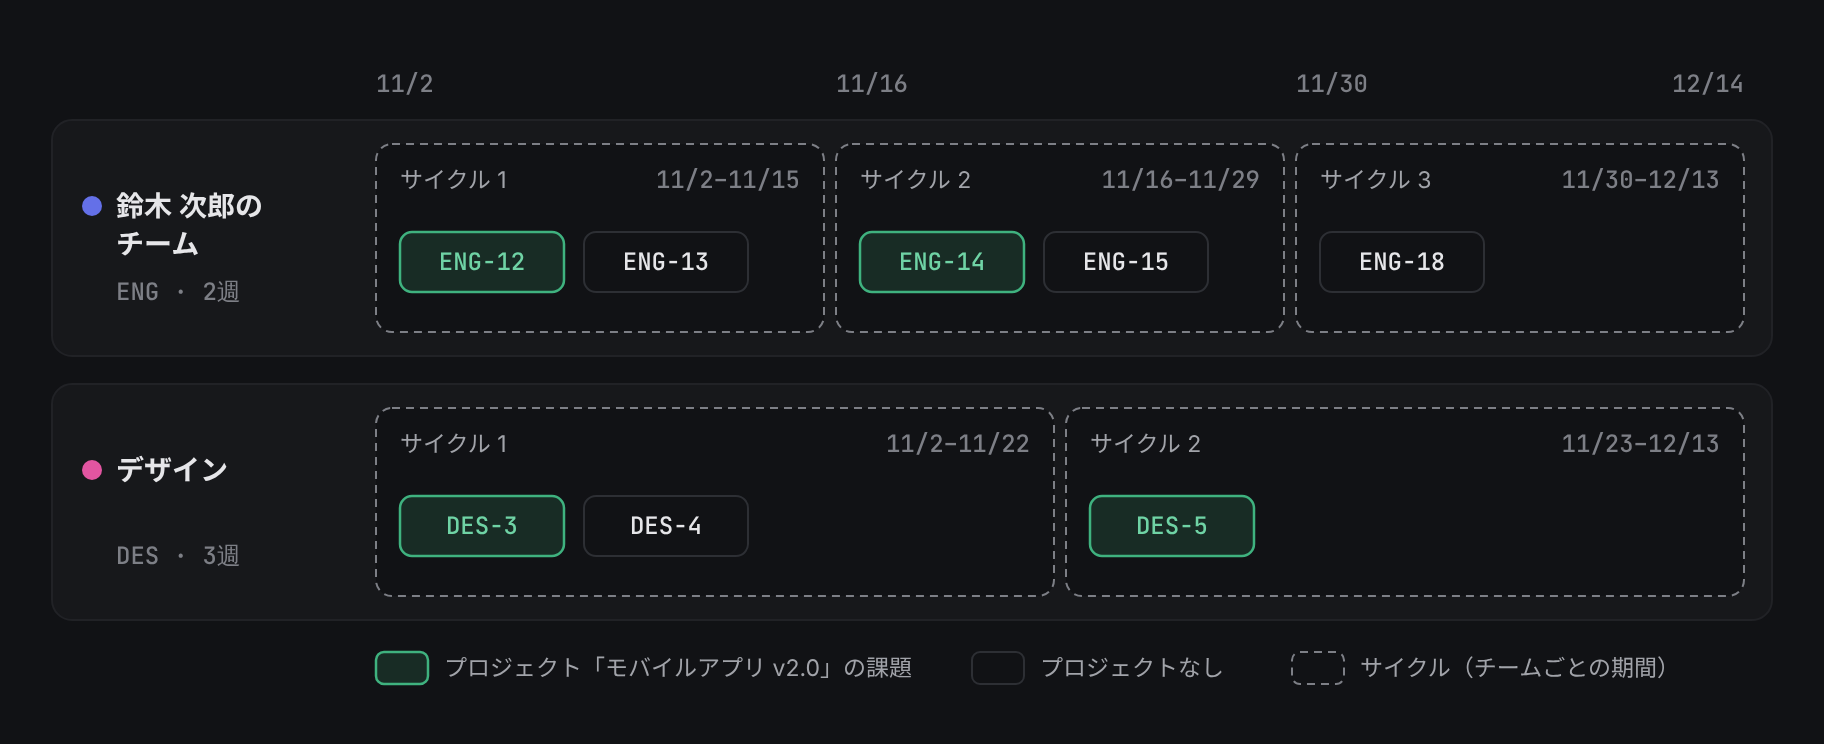
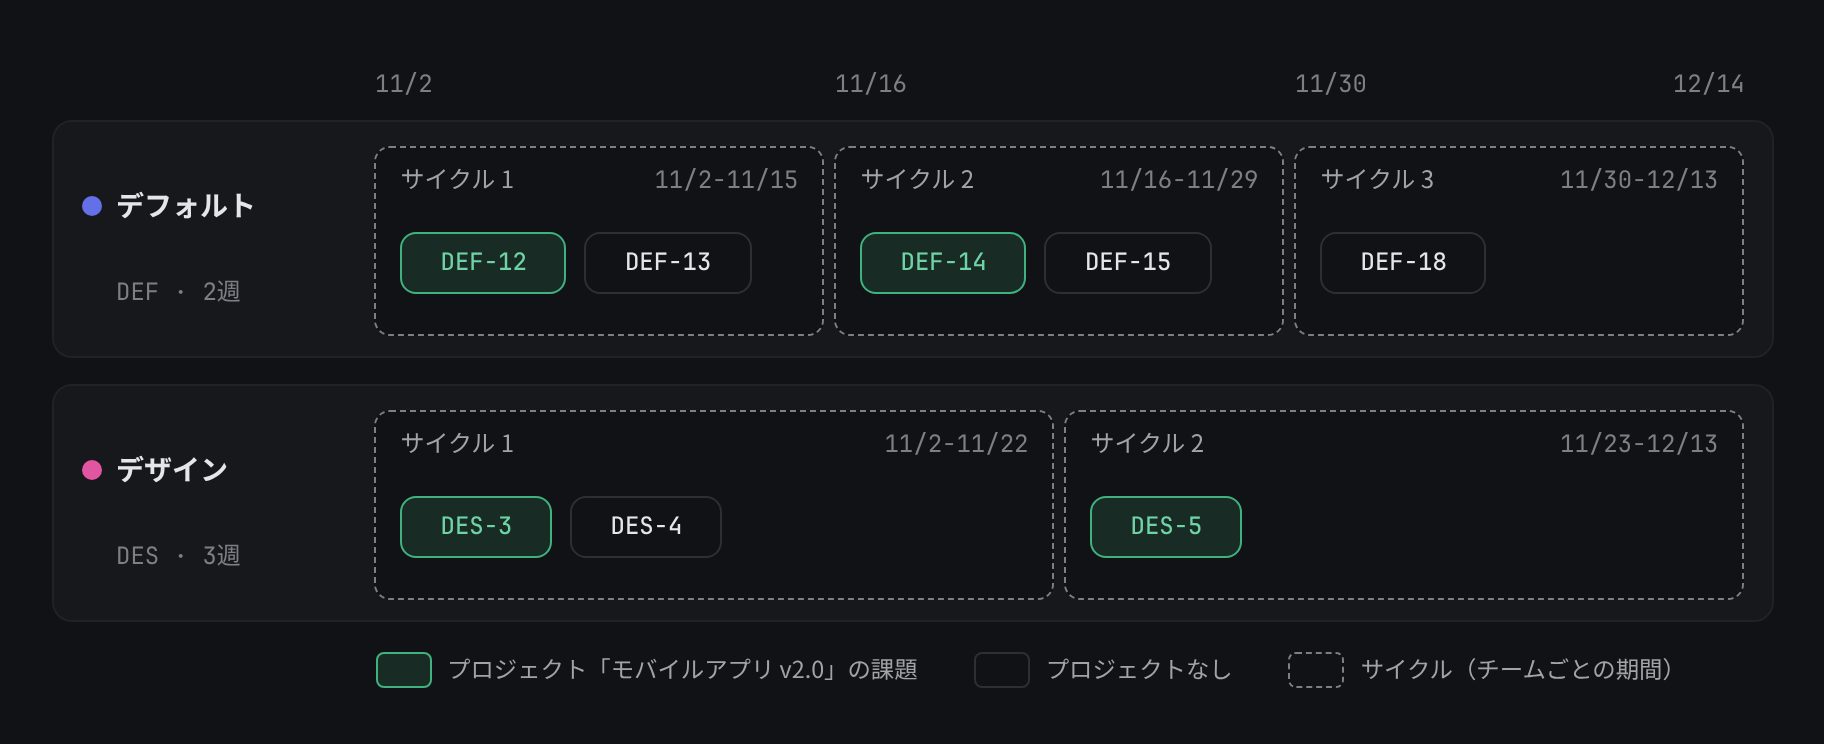
README の図「プロジェクトとサイクル」をチーム「デフォルト」（DEF）で作り直す
- 図の元データ docs/diagrams/projects-and-cycles.html を追加
- projects-and-cycles の PNG（ライト・ダーク）を書き出し直す
- README のディレクトリ構成に docs/diagrams/ と図の書き出しを追記

Claude-Session: https://claude.ai/code/session_01QjZbnsehNPyMXhKnuroriF

diff --git a/docs/diagrams/projects-and-cycles.html b/docs/diagrams/projects-and-cycles.html
@@ -1,0 +1,298 @@
+<!-- bun run diagrams で docs/images/ に書き出す -->
+<!DOCTYPE html>
+<html lang="ja">
+<head>
+<meta charset="utf-8">
+<title>プロジェクトとサイクル</title>
+<style>
+  :root {
+    --bg: #ffffff;
+    --frame: #f7f7f9;
+    --frame-border: #d6d7dc;
+    --surface: #ffffff;
+    --line: #e7e7eb;
+    --text: #1b1c21;
+    --muted: #5c5f68;
+    --label: #787b84;
+    --accent: #5865e3;
+    --pink: #c93d88;
+    --green: #1e8a5b;
+    --green-text: #17734b;
+    --green-bg: #e4f1eb;
+    color-scheme: light;
+  }
+
+  @media (prefers-color-scheme: dark) {
+    :root {
+      --bg: #111215;
+      --frame: #17181b;
+      --frame-border: #2d2f34;
+      --surface: #111215;
+      --line: #212226;
+      --text: #e6e6e9;
+      --muted: #a1a3a9;
+      --label: #7d7f86;
+      --accent: #6470e8;
+      --pink: #e255a1;
+      --green: #3fb27f;
+      --green-text: #6fd3a5;
+      --green-bg: #182c25;
+      color-scheme: dark;
+    }
+  }
+
+  * { box-sizing: border-box; margin: 0; padding: 0; }
+
+  html, body {
+    width: 912px;
+    height: 372px;
+    margin: 0;
+    background: var(--bg);
+    overflow: hidden;
+  }
+
+  body {
+    position: relative;
+    font-family: "Noto Sans JP", "Hiragino Sans", sans-serif;
+    color: var(--text);
+    -webkit-font-smoothing: antialiased;
+  }
+
+  .scale {
+    position: absolute;
+    left: 187.5px;
+    top: 33px;
+    width: 685px;
+    height: 18px;
+    color: var(--label);
+    font-family: "JetBrains Mono", ui-monospace, monospace;
+    font-size: 12px;
+    font-weight: 400;
+    line-height: 18px;
+  }
+
+  .scale span {
+    position: absolute;
+    top: 0;
+    white-space: nowrap;
+  }
+
+  .scale span:nth-child(1) { left: 0; }
+  .scale span:nth-child(2) { left: 230px; }
+  .scale span:nth-child(3) { left: 460px; }
+  .scale span:nth-child(4) { right: 0; }
+
+  .band {
+    position: absolute;
+    left: 25.5px;
+    width: 861px;
+    height: 119px;
+    background: var(--frame);
+    border: 1px solid var(--line);
+    border-radius: 10px;
+  }
+
+  .band.a { top: 59.5px; }
+  .band.b { top: 191.5px; }
+
+  .who {
+    position: absolute;
+    left: 14.5px;
+    top: 35.5px;
+    display: flex;
+    align-items: center;
+    gap: 7px;
+    font-size: 14px;
+    font-weight: 700;
+    line-height: 1;
+    white-space: nowrap;
+  }
+
+  .meta {
+    position: absolute;
+    left: 31.5px;
+    top: 79.5px;
+    color: var(--label);
+    font-family: "JetBrains Mono", "Noto Sans JP", ui-monospace, monospace;
+    font-size: 12px;
+    font-weight: 400;
+    line-height: 1;
+    white-space: nowrap;
+  }
+
+  .dot {
+    width: 10px;
+    height: 10px;
+    border-radius: 50%;
+    flex: none;
+  }
+
+  .dot.accent { background: var(--accent); }
+  .dot.pink { background: var(--pink); }
+
+  .cycles {
+    position: absolute;
+    left: 160.75px;
+    top: 12px;
+    width: 685px;
+    height: 95px;
+    display: flex;
+    gap: 5px;
+  }
+
+  .cycle {
+    flex: 1;
+    min-width: 0;
+    background: var(--surface);
+    border: 1px dashed var(--label);
+    border-radius: 8px;
+    padding: 10px 12px 0;
+    display: flex;
+    flex-direction: column;
+  }
+
+  .cycle-head {
+    display: flex;
+    align-items: baseline;
+    justify-content: space-between;
+    font-size: 12px;
+    font-weight: 400;
+    line-height: 1;
+    white-space: nowrap;
+  }
+
+  .cycle-head .name { color: var(--muted); }
+
+  .cycle-head .range {
+    color: var(--label);
+    font-family: "JetBrains Mono", ui-monospace, monospace;
+  }
+
+  .chips {
+    margin-top: 20px;
+    display: flex;
+    gap: 9px;
+  }
+
+  .chip {
+    height: 31px;
+    padding: 0 19px;
+    background: var(--surface);
+    border: 1px solid var(--frame-border);
+    border-radius: 8px;
+    display: flex;
+    align-items: center;
+    justify-content: center;
+    font-family: "JetBrains Mono", ui-monospace, monospace;
+    font-size: 12px;
+    font-weight: 500;
+    line-height: 1;
+    white-space: nowrap;
+  }
+
+  .chip.project {
+    background: var(--green-bg);
+    border-color: var(--green);
+    color: var(--green-text);
+  }
+
+  .legend {
+    position: absolute;
+    left: 187.5px;
+    top: 325.5px;
+    display: flex;
+    align-items: center;
+    gap: 28px;
+    color: var(--muted);
+    font-size: 11.7px;
+    font-weight: 400;
+    line-height: 1;
+    white-space: nowrap;
+  }
+
+  .legend .item {
+    display: flex;
+    align-items: center;
+    gap: 8px;
+  }
+
+  .swatch {
+    width: 28px;
+    height: 18px;
+    border-radius: 4px;
+    flex: none;
+    background: var(--surface);
+  }
+
+  .swatch.project {
+    background: var(--green-bg);
+    border: 1px solid var(--green);
+  }
+
+  .swatch.plain { border: 1px solid var(--frame-border); }
+
+  .swatch.cycle { border: 1px dashed var(--label); }
+</style>
+</head>
+<body>
+  <div class="scale">
+    <span>11/2</span>
+    <span>11/16</span>
+    <span>11/30</span>
+    <span>12/14</span>
+  </div>
+
+  <section class="band a">
+    <div class="who"><span class="dot accent"></span>デフォルト</div>
+    <div class="meta">DEF · 2週</div>
+    <div class="cycles">
+      <div class="cycle">
+        <div class="cycle-head"><span class="name">サイクル 1</span><span class="range">11/2-11/15</span></div>
+        <div class="chips">
+          <span class="chip project">DEF-12</span>
+          <span class="chip">DEF-13</span>
+        </div>
+      </div>
+      <div class="cycle">
+        <div class="cycle-head"><span class="name">サイクル 2</span><span class="range">11/16-11/29</span></div>
+        <div class="chips">
+          <span class="chip project">DEF-14</span>
+          <span class="chip">DEF-15</span>
+        </div>
+      </div>
+      <div class="cycle">
+        <div class="cycle-head"><span class="name">サイクル 3</span><span class="range">11/30-12/13</span></div>
+        <div class="chips">
+          <span class="chip">DEF-18</span>
+        </div>
+      </div>
+    </div>
+  </section>
+
+  <section class="band b">
+    <div class="who"><span class="dot pink"></span>デザイン</div>
+    <div class="meta">DES · 3週</div>
+    <div class="cycles">
+      <div class="cycle">
+        <div class="cycle-head"><span class="name">サイクル 1</span><span class="range">11/2-11/22</span></div>
+        <div class="chips">
+          <span class="chip project">DES-3</span>
+          <span class="chip">DES-4</span>
+        </div>
+      </div>
+      <div class="cycle">
+        <div class="cycle-head"><span class="name">サイクル 2</span><span class="range">11/23-12/13</span></div>
+        <div class="chips">
+          <span class="chip project">DES-5</span>
+        </div>
+      </div>
+    </div>
+  </section>
+
+  <div class="legend">
+    <div class="item"><span class="swatch project"></span>プロジェクト「モバイルアプリ v2.0」の課題</div>
+    <div class="item"><span class="swatch plain"></span>プロジェクトなし</div>
+    <div class="item"><span class="swatch cycle"></span>サイクル（チームごとの期間）</div>
+  </div>
+</body>
+</html>

diff --git a/README.md b/README.md
@@ -426,8 +426,9 @@ src/           React アプリ
 tutorials/     使い方動画の自動収録（シナリオ・オーバーレイ・録画）
 tests/e2e/     Playwright の E2E テスト
 demo/          バックエンドごとブラウザで動く単一 HTML のデモ版（sql.js）
-scripts/       Cloudflare の初期設定・デプロイ前チェック・デモのビルド・PWA のアイコン書き出し
+scripts/       Cloudflare の初期設定・デプロイ前チェック・デモのビルド・PWA のアイコン書き出し・README の図の書き出し
 docs/images/   README の図（チーム・プロジェクト・サイクル・課題の関係）
+docs/diagrams/ README の図の元データ（HTML。bun run diagrams で docs/images/ に書き出す）
 ```
 
 ## ブラウザだけで動くデモ版
